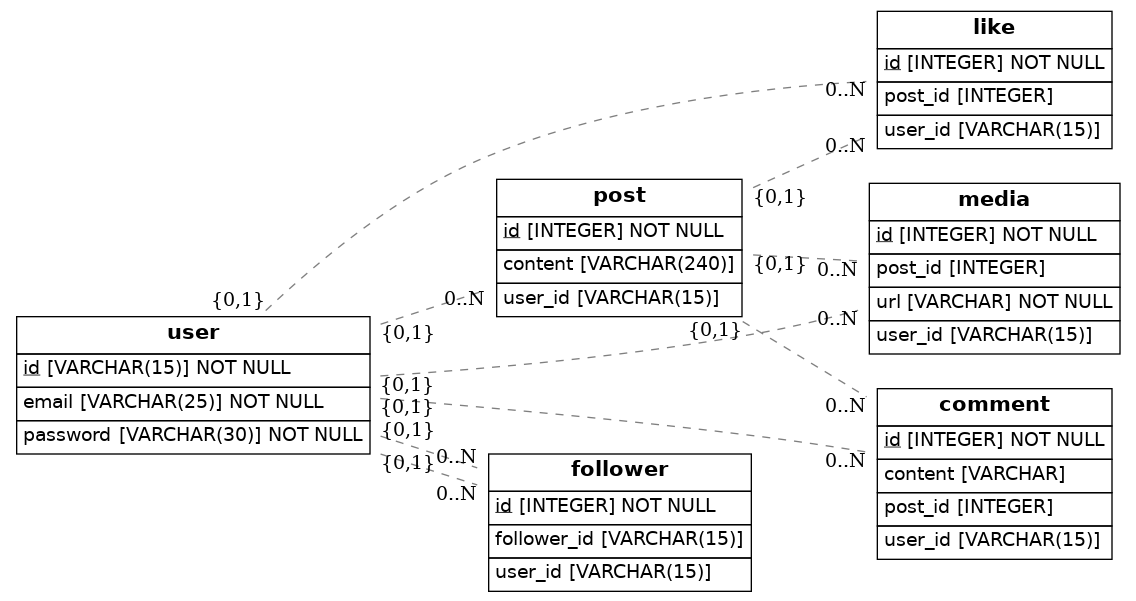
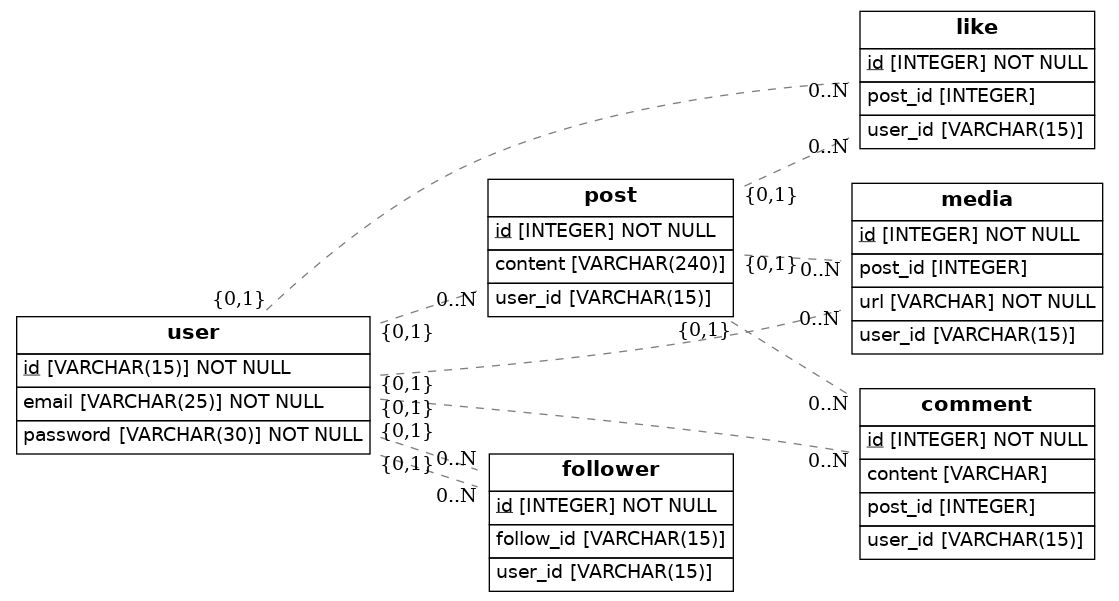
changed followers/following table

diff --git a/src/models.py b/src/models.py
@@ -50,7 +50,7 @@ class Comment(Base):
 class Follower(Base):
     __tablename__ = 'follower'
     id = Column(Integer, primary_key=True)
-    follower_id = Column(String(15), ForeignKey('user.id'))
+    follow_id = Column(String(15), ForeignKey('user.id'))
     user_id = Column(String(15), ForeignKey('user.id'))
 
 ## Draw from SQLAlchemy base
